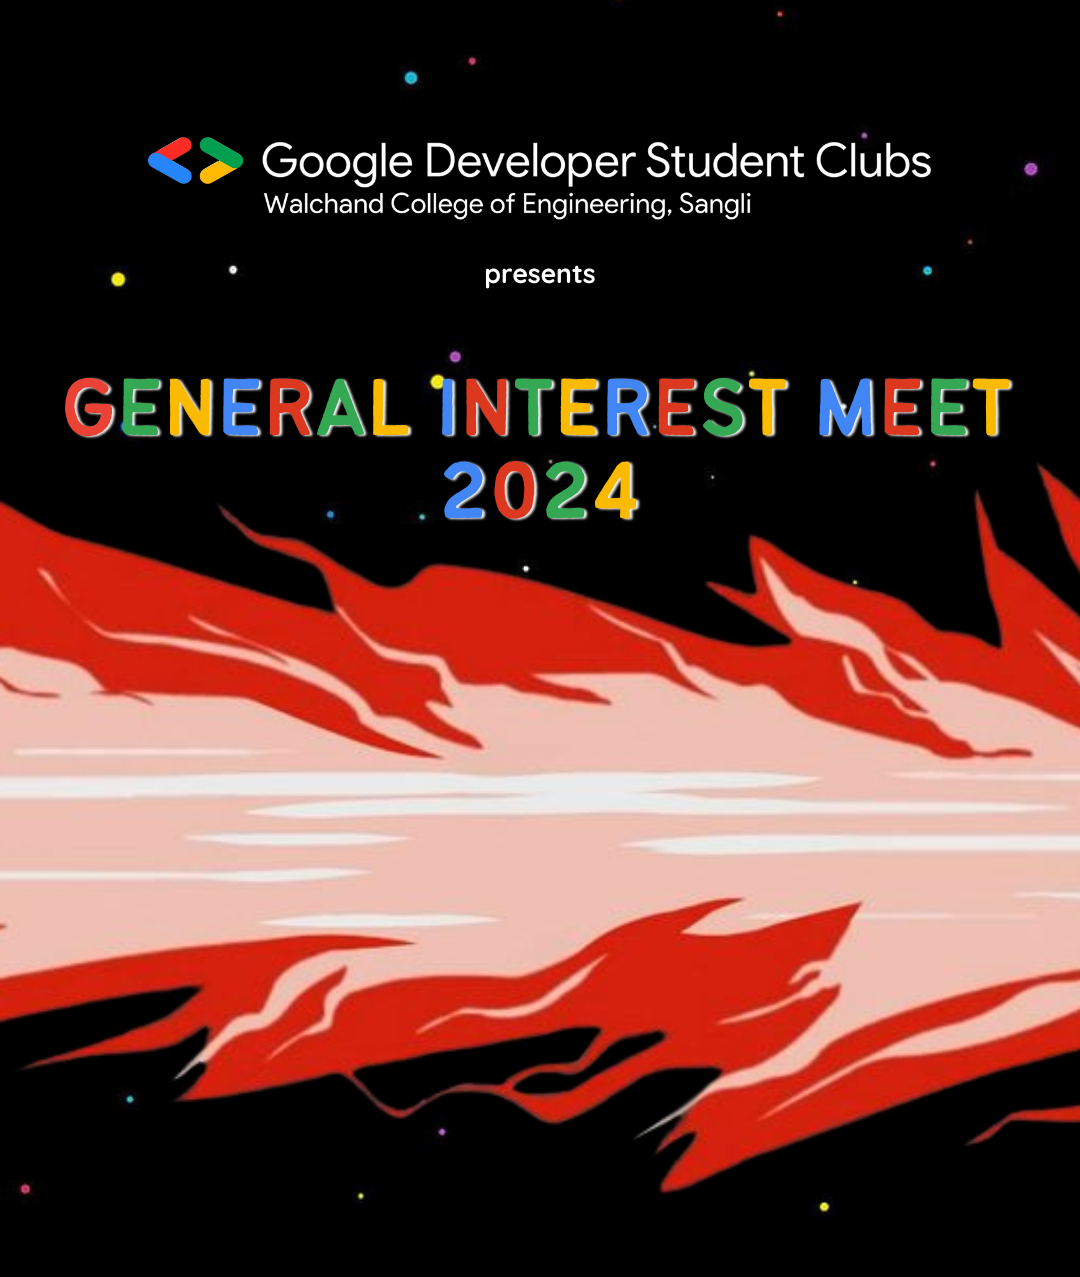
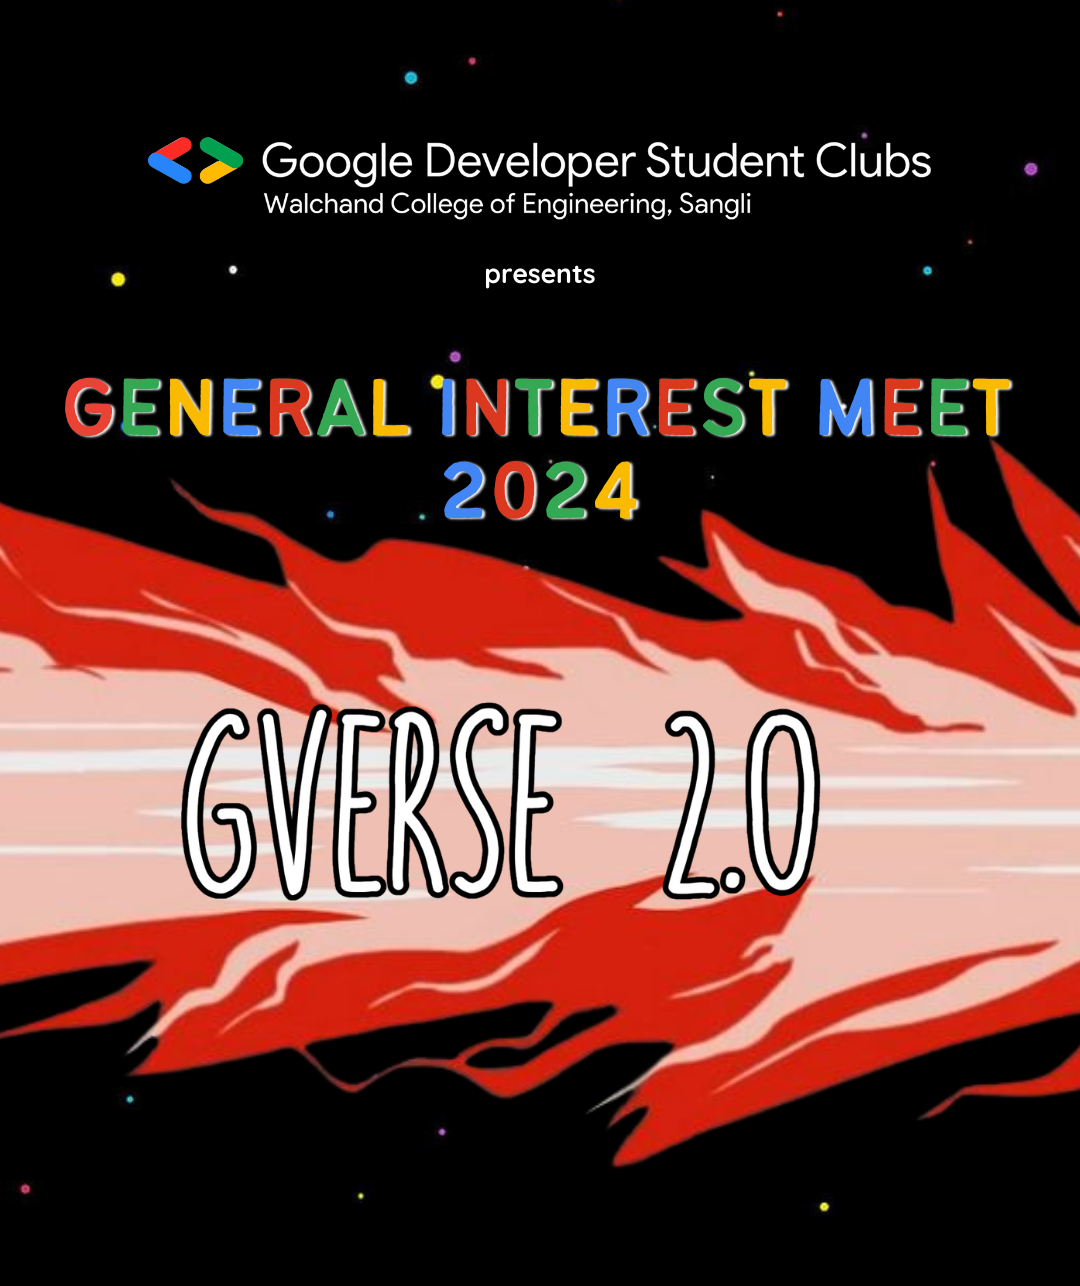
Sumit

diff --git a/src/Background.jsx b/src/Background.jsx
@@ -3,31 +3,11 @@ import bg1 from "./assets/2.png";
 export default function Background() {
   return (
     <>
-      <div
-        className="relative w-full bg-cover bg-center"
-        style={{ backgroundImage: `url(${bg1})` , height:'1500px'}}
-      >
-        <div className="absolute inset-0 flex flex-col items-center justify-center text-center" style={{marginTop:'50%',}}>
-          <h1
-            className="font-bold text-5xl sm:text-6xl md:text-9xl text-white mb-2 tracking-wide animate-bounce"
-            style={{ fontFamily: "'Orbitron', sans-serif" }}
-          >
-            G-Verse
-          </h1>
-          <h2
-            className="font-bold text-5xl sm:text-6xl md:text-9xl text-blue-500 mb-2 tracking-wide animate-pulse"
-            style={{ fontFamily: "'Orbitron', sans-serif" }}
-          >
-            2.0
-          </h2>
-          <p className="text-lg sm:text-xl md:text-4xl text-gray-700 mb-4 animate-fadeIn delay-2000">
-            Join us for an exciting tech adventure!
-          </p>
-          <p className="text-base sm:text-lg md:text-2xl text-green-600 mt-10 animate-bounce">
-            Scroll down to watch Teaser
-          </p>
-        </div>
-      </div>
+      <img
+          src={bg1}
+          alt=""
+          className="w-full sm:w-full md:w-full h-auto animate-spin-slow"
+        />
     </>
   );
 }

diff --git a/src/App.jsx b/src/App.jsx
@@ -3,7 +3,7 @@ import GDSC from "./assets/GDSC.mp4";
 import bg1 from "./assets/2.png";
 import bg2 from "./assets/3.png";
 import Logo2 from "./assets/logo2.jpg";
-import Background from "./Background.jsx"
+import Background from "./Background.jsx";
 
 function App() {
   const videoRef = useRef(null);
@@ -30,7 +30,7 @@ function App() {
 
         <section
           id="video"
-          className="w-full flex justify-center items-center mb-20 px-4"
+          className="w-full flex justify-center items-center mb-4 px-4"  // Reduced mb-20 to mb-4
         >
           <video
             ref={videoRef}
